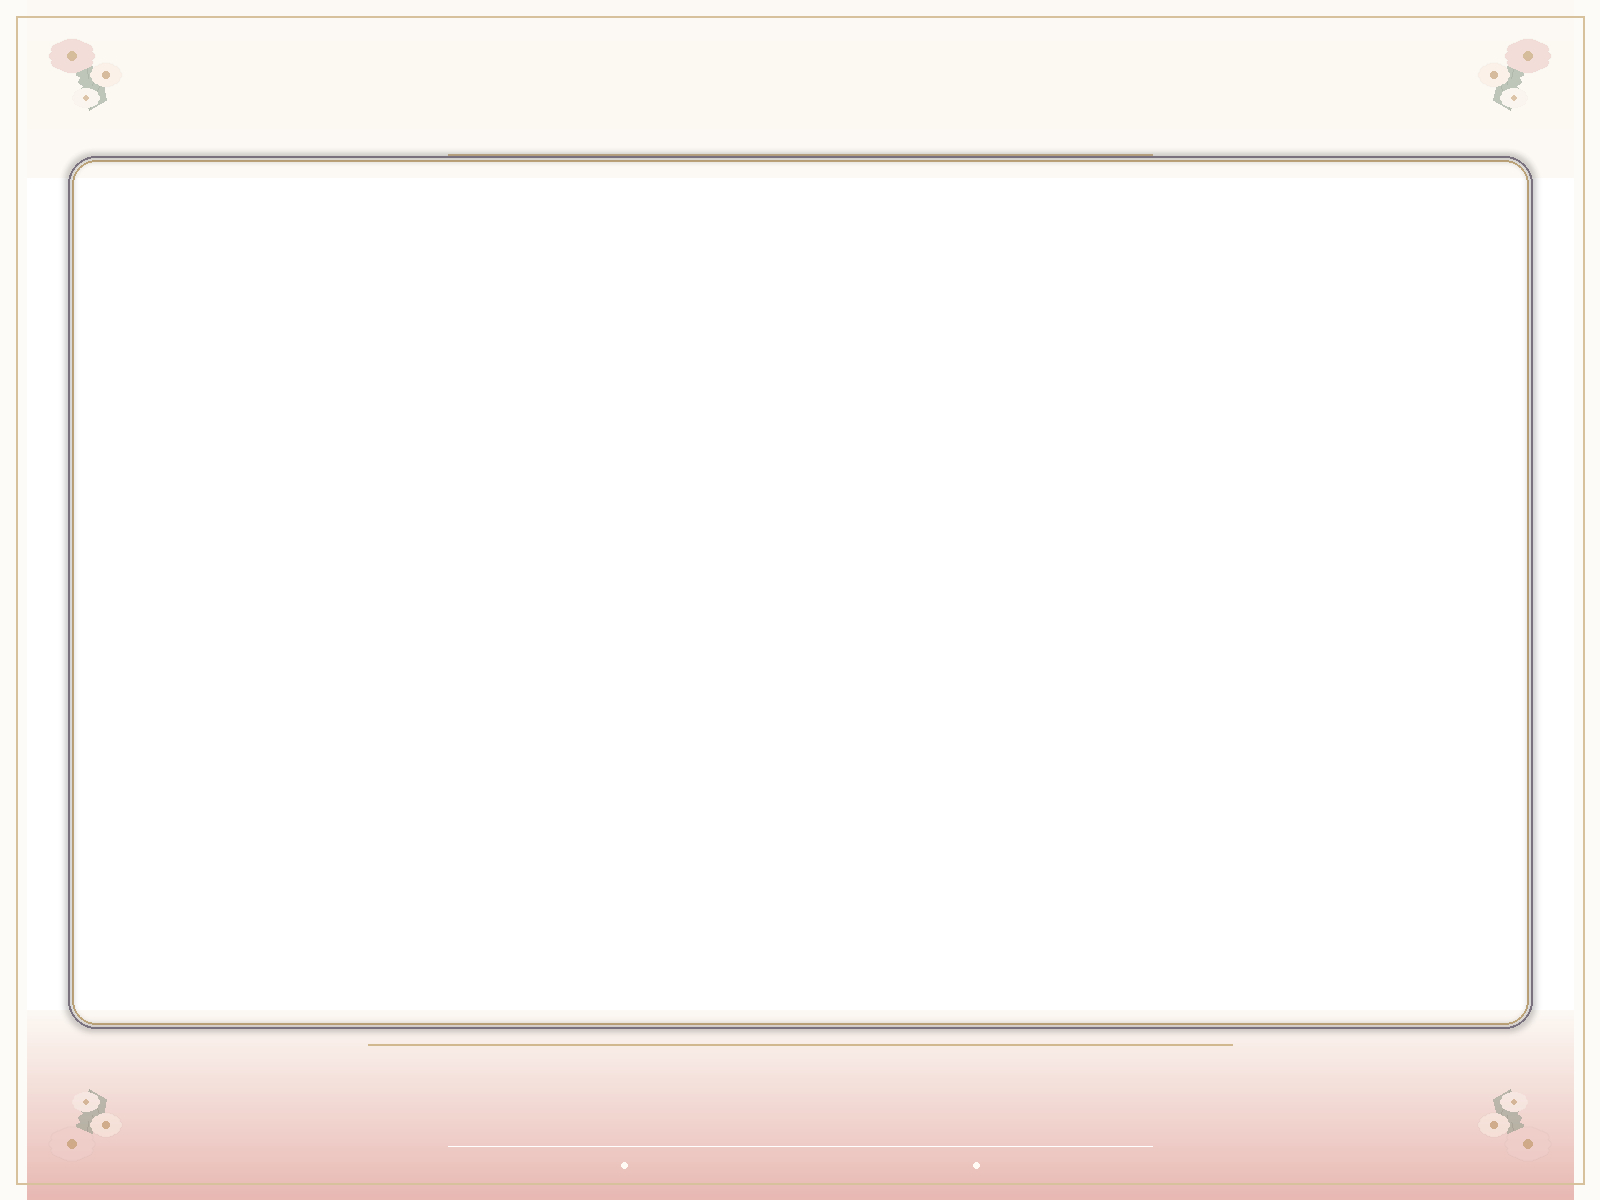
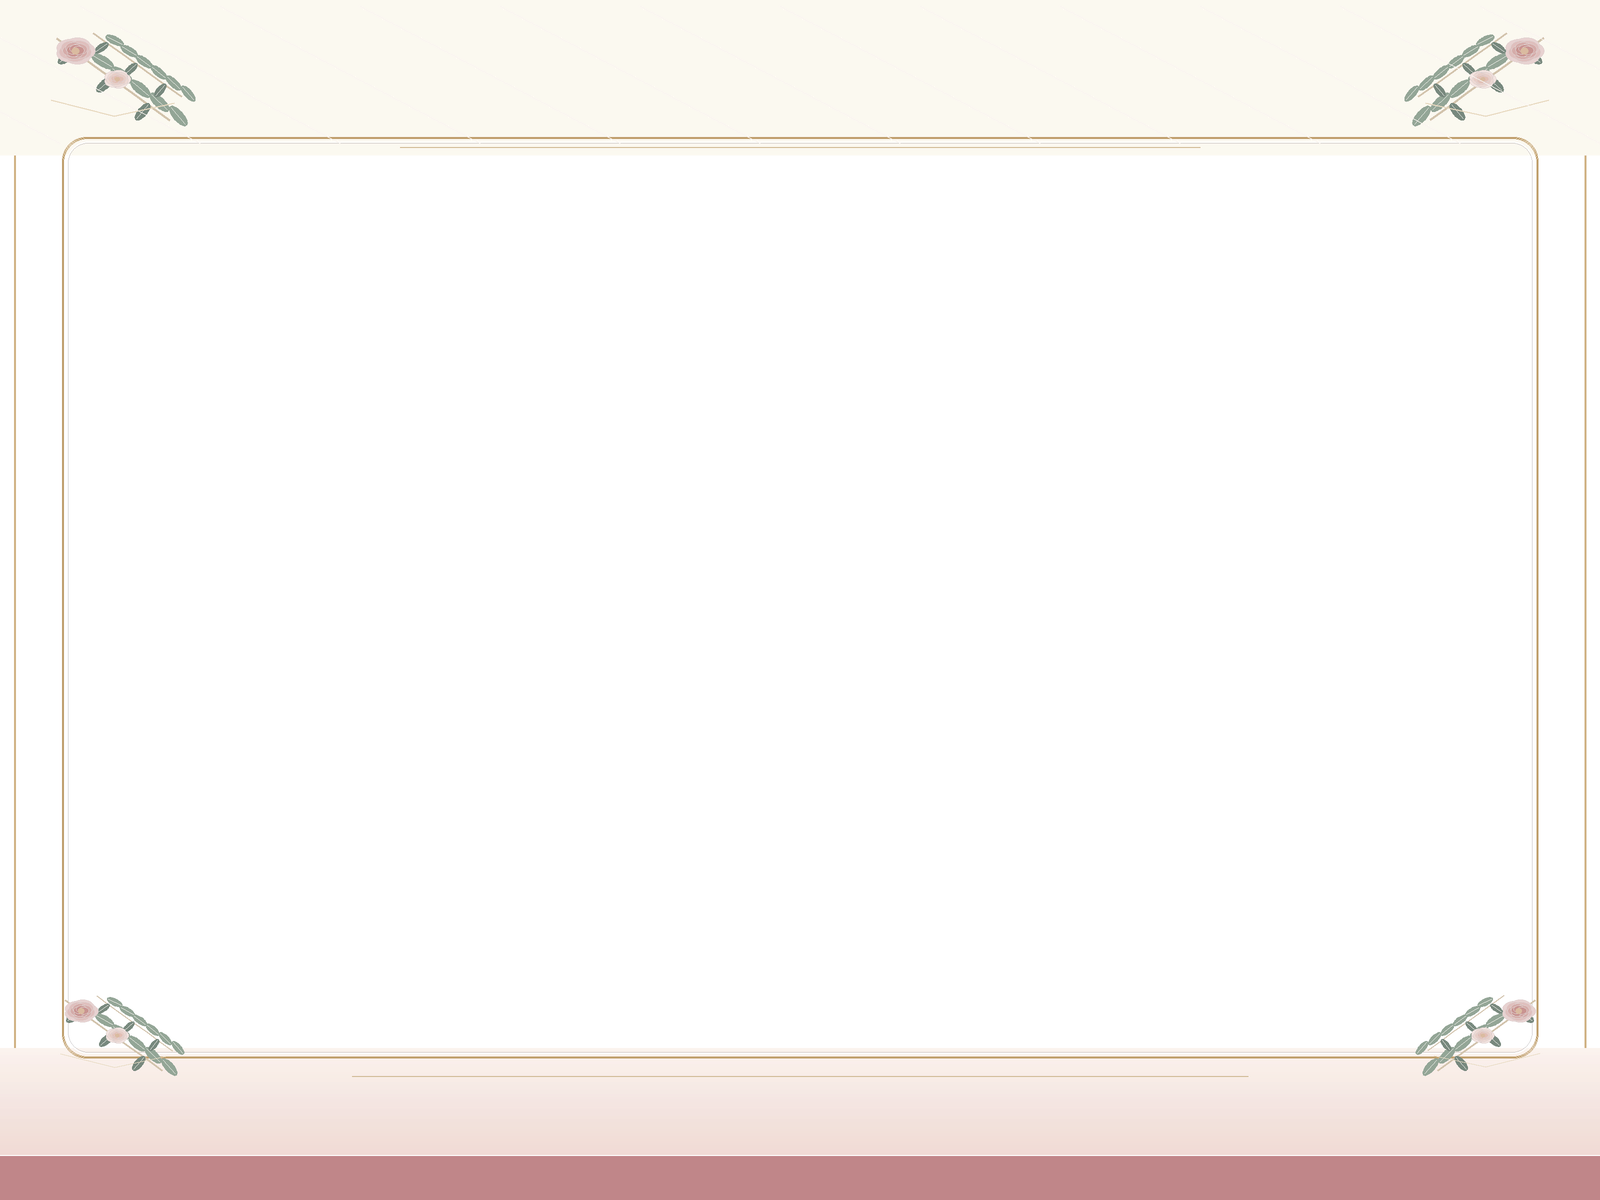
Git summary: Refine wedding photo overlay with cleaner typography and reduced footer height.
Git details:
- Reworked wedding overlay assets with crisper line-art floral styling.
- Reduced the footer area so more of the uploaded photo remains visible.
- Tightened the header spacing to reduce photo loss.
- Switched wedding title/thank-you text toward a calligraphy-style font where ImageMagick supports it.
- Kept the overlay as transparent PNG assets over the original uploaded photo.

Changed region(s): [[0.0312, 0.0308, 0.9688, 0.8942], [0.0, 0.925, 1.0, 1.0]]

diff --git a/includes/photo-uploads.php b/includes/photo-uploads.php
@@ -506,6 +506,23 @@ function photo_imagick_serif_font_path($bold = false) {
     return $bold ? 'DejaVu-Serif-Bold' : 'DejaVu-Serif';
 }
 
+
+function photo_imagick_script_font_path() {
+    $candidates = [
+        '/usr/share/fonts/opentype/urw-base35/Z003-MediumItalic.otf',
+        '/usr/share/fonts/type1/urw-base35/Z003-MediumItalic.t1',
+        '/usr/share/fonts/X11/Type1/z003034l.pfb',
+    ];
+    foreach ($candidates as $path) {
+        if (is_file($path)) {
+            return $path;
+        }
+    }
+
+    // ImageMagick usually resolves this to a calligraphy-style font where available.
+    return 'Z003';
+}
+
 function photo_imagick_set_font_safe(ImagickDraw $draw, $fontPath) {
     $fontPath = trim((string)$fontPath);
     if ($fontPath === '') {
@@ -721,15 +738,15 @@ function photo_render_framed_image($sourcePath, $destPath, $event, $orientation 
         } catch (Throwable $e) {
             // Ignore trim failures and use the source as-is.
         }
-        $logoSize = $isWedding ? ($landscape ? 126 : 138) : ($landscape ? 116 : 116);
+        $logoSize = $isWedding ? ($landscape ? 112 : 122) : ($landscape ? 116 : 116);
         $logo->resizeImage($logoSize, $logoSize, Imagick::FILTER_LANCZOS, 1, true);
-        $logoX = $isWedding ? ($landscape ? 44 : 42) : ($landscape ? 30 : 30);
-        $logoY = $isWedding ? ($landscape ? 1016 : 1076) : ($landscape ? 30 : 30);
+        $logoX = $isWedding ? ($landscape ? 52 : 44) : ($landscape ? 30 : 30);
+        $logoY = $isWedding ? ($landscape ? 1058 : 1182) : ($landscape ? 30 : 30);
         $canvas->compositeImage($logo, Imagick::COMPOSITE_OVER, $logoX, $logoY);
 
         $fontBold = photo_imagick_font_path(true);
         $fontRegular = photo_imagick_font_path(false);
-        $fontWeddingTitle = photo_imagick_serif_font_path(false);
+        $fontWeddingTitle = photo_imagick_script_font_path();
         $fontWeddingTitleBold = photo_imagick_serif_font_path(true);
 
         $eventName = trim((string)($event['event_name'] ?? $event['name'] ?? 'Dance Thru The Decades'));
@@ -746,16 +763,16 @@ function photo_render_framed_image($sourcePath, $destPath, $event, $orientation 
 
         if ($landscape) {
             if ($isWedding) {
-                photo_imagick_draw_text($canvas, $headlineText, 800, 44, $fontBold, 22, $weddingInk, null, 0, 960, Imagick::ALIGN_CENTER);
-                $titleSize = photo_imagick_fit_font_size($canvas, $eventName, $fontWeddingTitle, 54, 980, 32);
-                photo_imagick_draw_text($canvas, $eventName, 800, 99, $fontWeddingTitle, $titleSize, $weddingRose, null, 0, 980, Imagick::ALIGN_CENTER);
-                photo_imagick_draw_text($canvas, ($dateLine !== '' ? $dateLine : 'TBA'), 800, 135, $fontWeddingTitleBold, 22, $weddingInk, null, 0, 620, Imagick::ALIGN_CENTER);
+                photo_imagick_draw_text($canvas, $headlineText, 800, 38, $fontBold, 20, $weddingInk, null, 0, 960, Imagick::ALIGN_CENTER);
+                $titleSize = photo_imagick_fit_font_size($canvas, $eventName, $fontWeddingTitle, 82, 980, 40);
+                photo_imagick_draw_text($canvas, $eventName, 800, 100, $fontWeddingTitle, $titleSize, $weddingRose, null, 0, 980, Imagick::ALIGN_CENTER);
+                photo_imagick_draw_text($canvas, ($dateLine !== '' ? $dateLine : 'TBA'), 800, 131, $fontWeddingTitleBold, 20, $weddingInk, null, 0, 620, Imagick::ALIGN_CENTER);
                 if ($venueLine !== '') {
-                    photo_imagick_draw_text($canvas, $venueLine, 800, 163, $fontBold, 16, $weddingInk, null, 0, 720, Imagick::ALIGN_CENTER);
+                    photo_imagick_draw_text($canvas, $venueLine, 800, 156, $fontBold, 14, $weddingInk, null, 0, 720, Imagick::ALIGN_CENTER);
                 }
-                photo_imagick_draw_text($canvas, $thankYouText, 800, 1054, $fontWeddingTitle, 30, $weddingRose, null, 0, 820, Imagick::ALIGN_CENTER);
-                photo_imagick_draw_text($canvas, strtoupper($taglineText), 800, 1098, $fontBold, 15, $weddingInk, null, 0, 860, Imagick::ALIGN_CENTER);
-                photo_imagick_draw_text($canvas, $siteUrlText, 800, 1171, $fontWeddingTitleBold, 28, '#ffffff', null, 0, 860, Imagick::ALIGN_CENTER);
+                photo_imagick_draw_text($canvas, $thankYouText, 800, 1072, $fontWeddingTitle, 44, $weddingRose, null, 0, 820, Imagick::ALIGN_CENTER);
+                photo_imagick_draw_text($canvas, strtoupper($taglineText), 800, 1110, $fontBold, 13, $weddingInk, null, 0, 860, Imagick::ALIGN_CENTER);
+                photo_imagick_draw_text($canvas, $siteUrlText, 800, 1173, $fontWeddingTitleBold, 25, '#ffffff', null, 0, 860, Imagick::ALIGN_CENTER);
             }
             $rightInset = 86;
             $pillGap = 14;
@@ -798,16 +815,16 @@ function photo_render_framed_image($sourcePath, $destPath, $event, $orientation 
             if (!$isWedding) { photo_imagick_draw_text($canvas, '60s  •  70s  •  80s  •  90s  •  00s', 750, 1148, $fontBold, 17, '#ffcf40', null, 0, 0, Imagick::ALIGN_CENTER); }
         } else {
             if ($isWedding) {
-                photo_imagick_draw_text($canvas, $headlineText, 540, 54, $fontBold, 21, $weddingInk, null, 0, 760, Imagick::ALIGN_CENTER);
-                $titleSize = photo_imagick_fit_font_size($canvas, $eventName, $fontWeddingTitle, 54, 835, 30);
-                photo_imagick_draw_text($canvas, $eventName, 540, 121, $fontWeddingTitle, $titleSize, $weddingRose, null, 0, 835, Imagick::ALIGN_CENTER);
-                photo_imagick_draw_text($canvas, ($dateLine !== '' ? $dateLine : 'TBA'), 540, 165, $fontWeddingTitleBold, 22, $weddingInk, null, 0, 570, Imagick::ALIGN_CENTER);
+                photo_imagick_draw_text($canvas, $headlineText, 540, 43, $fontBold, 19, $weddingInk, null, 0, 760, Imagick::ALIGN_CENTER);
+                $titleSize = photo_imagick_fit_font_size($canvas, $eventName, $fontWeddingTitle, 76, 835, 38);
+                photo_imagick_draw_text($canvas, $eventName, 540, 109, $fontWeddingTitle, $titleSize, $weddingRose, null, 0, 835, Imagick::ALIGN_CENTER);
+                photo_imagick_draw_text($canvas, ($dateLine !== '' ? $dateLine : 'TBA'), 540, 143, $fontWeddingTitleBold, 20, $weddingInk, null, 0, 570, Imagick::ALIGN_CENTER);
                 if ($venueLine !== '') {
-                    photo_imagick_draw_text($canvas, $venueLine, 540, 194, $fontBold, 16, $weddingInk, null, 0, 650, Imagick::ALIGN_CENTER);
+                    photo_imagick_draw_text($canvas, $venueLine, 540, 166, $fontBold, 14, $weddingInk, null, 0, 650, Imagick::ALIGN_CENTER);
                 }
-                photo_imagick_draw_text($canvas, $thankYouText, 620, 1173, $fontWeddingTitle, 30, $weddingRose, null, 0, 720, Imagick::ALIGN_CENTER);
-                photo_imagick_draw_text($canvas, strtoupper($taglineText), 620, 1216, $fontBold, 14, $weddingInk, null, 0, 720, Imagick::ALIGN_CENTER);
-                photo_imagick_draw_text($canvas, $siteUrlText, 620, 1322, $fontWeddingTitleBold, 24, '#ffffff', null, 0, 720, Imagick::ALIGN_CENTER);
+                photo_imagick_draw_text($canvas, $thankYouText, 620, 1208, $fontWeddingTitle, 42, $weddingRose, null, 0, 720, Imagick::ALIGN_CENTER);
+                photo_imagick_draw_text($canvas, strtoupper($taglineText), 620, 1242, $fontBold, 12, $weddingInk, null, 0, 720, Imagick::ALIGN_CENTER);
+                photo_imagick_draw_text($canvas, $siteUrlText, 620, 1326, $fontWeddingTitleBold, 23, '#ffffff', null, 0, 720, Imagick::ALIGN_CENTER);
             }
             $rightInset = 72;
             $pillGap = 12;
